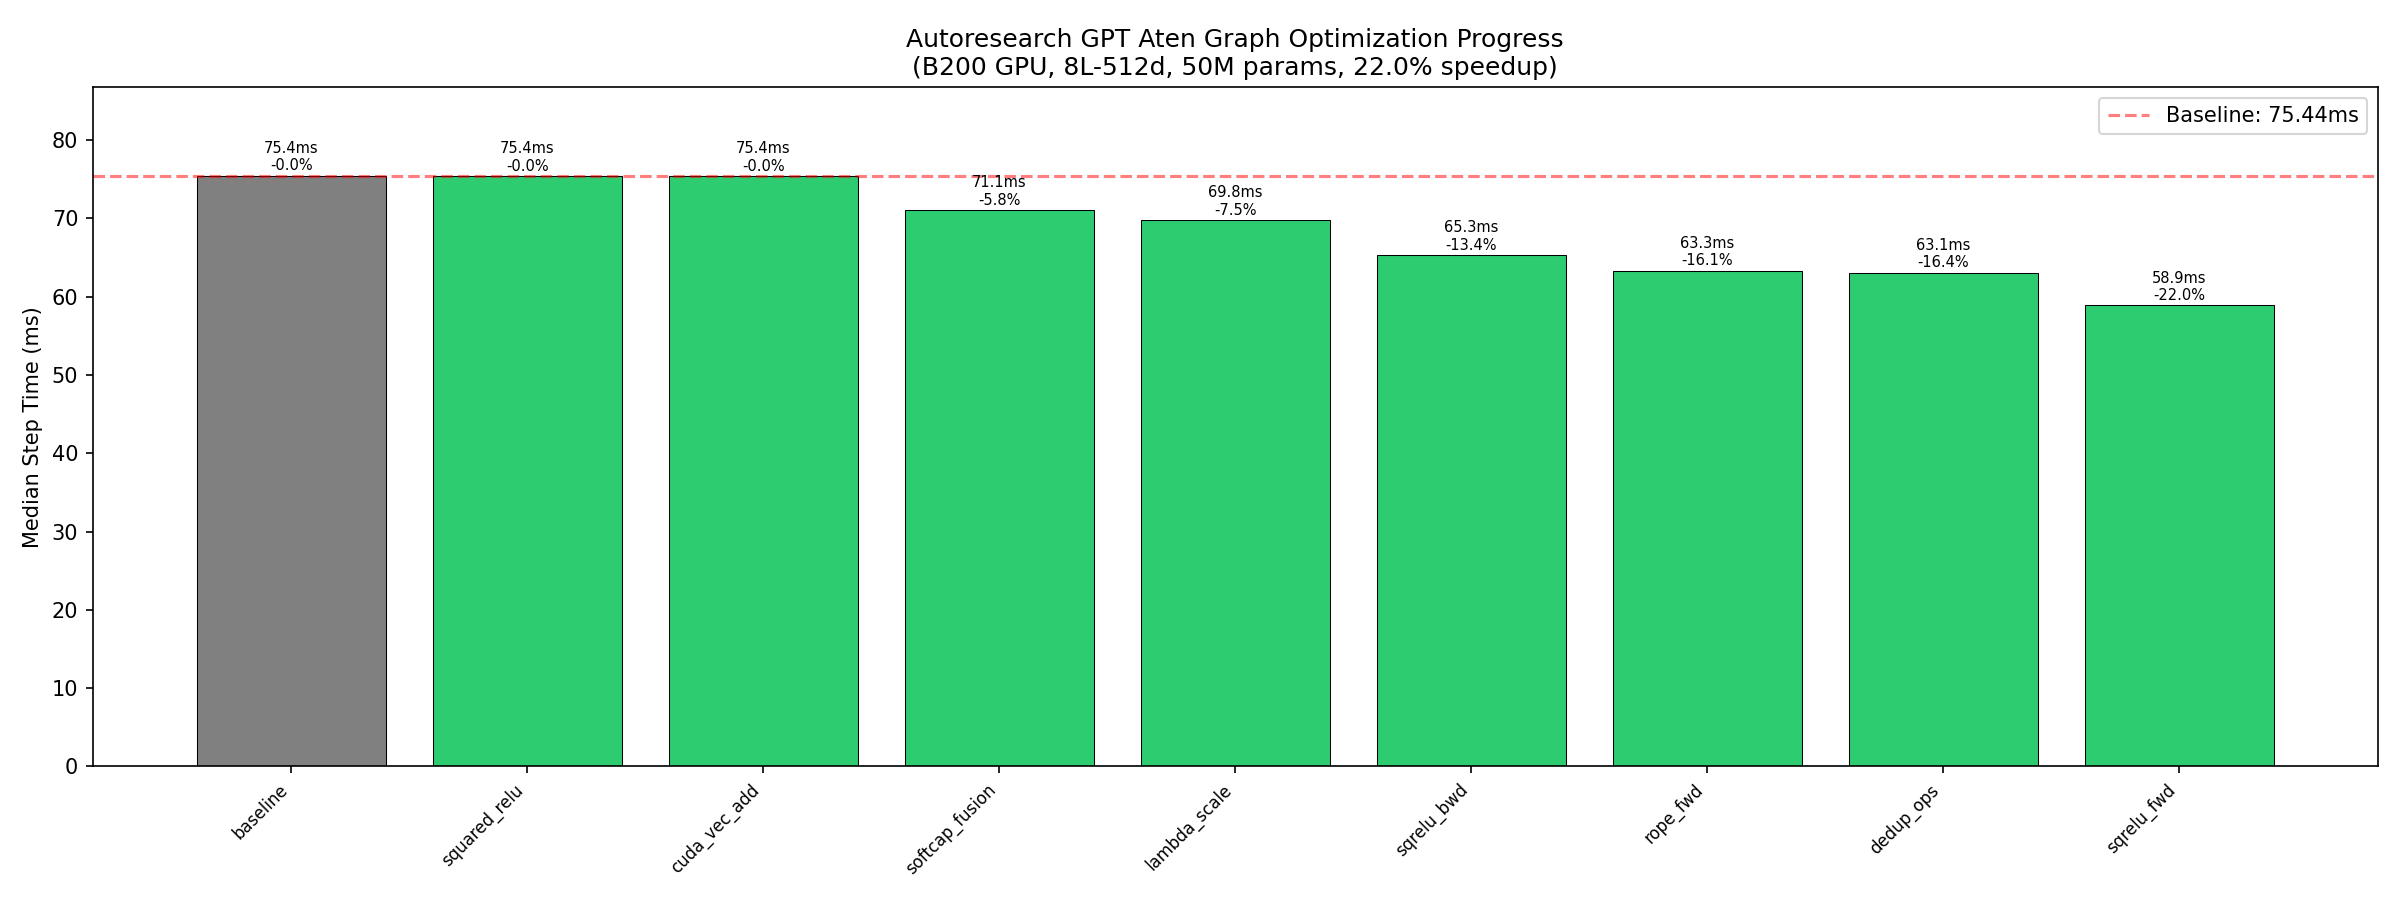
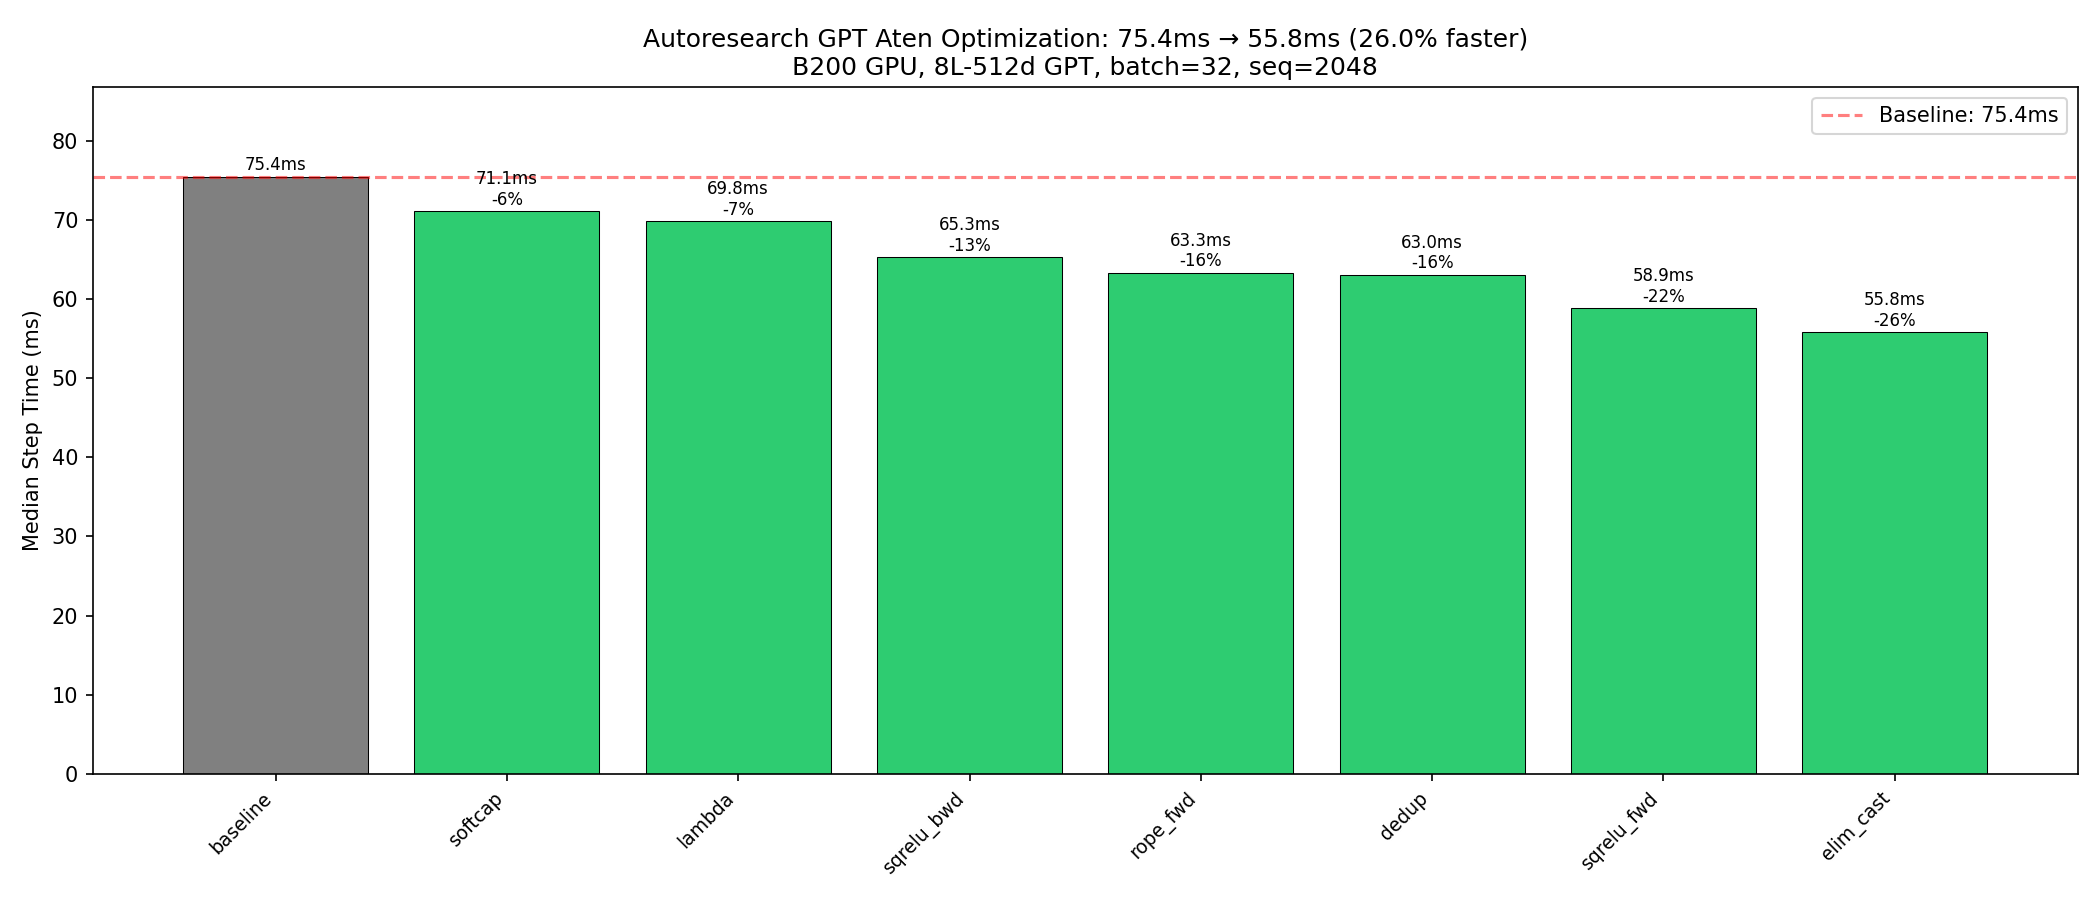
perf: fold bf16->fp32 cast into sqrelu_bwd kernel (26.0% total speedup)
Modified triton_squared_relu_bwd to accept bf16 gradient directly,
eliminating 8 large _to_copy(fp32) operations on [32,2048,2048] tensors.
55.80ms vs 75.44ms baseline on B200.

diff --git a/.autoresearch_optim_cache/GPT_07554748d291_2a_train_aten.py b/.autoresearch_optim_cache/GPT_07554748d291_2a_train_aten.py
@@ -352,26 +352,28 @@ def triton_softcap_bwd(grad_fp32, tanh_out_fp32, softcap=15):
 @triton.jit
 def _squared_relu_bwd_kernel(
     grad_ptr, relu_fp32_ptr, relu_bf16_ptr, out_ptr, n,
-    BLOCK: tl.constexpr,
+    GRAD_IS_BF16: tl.constexpr, BLOCK: tl.constexpr,
 ):
     pid = tl.program_id(0)
     offs = pid * BLOCK + tl.arange(0, BLOCK)
     mask = offs < n
-    grad = tl.load(grad_ptr + offs, mask=mask)           # fp32
+    grad_raw = tl.load(grad_ptr + offs, mask=mask)
+    # Cast grad to fp32 if input is bf16
+    grad = grad_raw.to(tl.float32) if GRAD_IS_BF16 else grad_raw
     relu_fp32 = tl.load(relu_fp32_ptr + offs, mask=mask)  # fp32
     relu_bf16 = tl.load(relu_bf16_ptr + offs, mask=mask).to(tl.float32)  # bf16 → fp32
     # d/dx [relu(x)^2] = 2*relu(x) * (x > 0)
-    # threshold_backward: output 0 where relu was 0
     result = tl.where(relu_bf16 > 0, grad * 2.0 * relu_fp32, 0.0)
     tl.store(out_ptr + offs, result.to(tl.bfloat16), mask=mask)
 
-def triton_squared_relu_bwd(grad_fp32, relu_fp32, relu_bf16):
-    """Fused squared relu backward: grad * 2 * relu * (relu > 0) → bf16."""
-    n = grad_fp32.numel()
-    out = torch.empty(grad_fp32.shape, dtype=torch.bfloat16, device=grad_fp32.device)
+def triton_squared_relu_bwd(grad, relu_fp32, relu_bf16):
+    """Fused squared relu backward: grad * 2 * relu * (relu > 0) → bf16. Accepts fp32 or bf16 grad."""
+    n = grad.numel()
+    out = torch.empty(grad.shape, dtype=torch.bfloat16, device=grad.device)
     BLOCK = 1024
     grid = ((n + BLOCK - 1) // BLOCK,)
-    _squared_relu_bwd_kernel[grid](grad_fp32, relu_fp32, relu_bf16, out, n, BLOCK=BLOCK)
+    is_bf16 = (grad.dtype == torch.bfloat16)
+    _squared_relu_bwd_kernel[grid](grad, relu_fp32, relu_bf16, out, n, GRAD_IS_BF16=is_bf16, BLOCK=BLOCK)
     return out
 # ── End Triton fused squared_relu backward kernel ──────────────────
 
@@ -2333,14 +2335,13 @@ def backward(
     grad_h7_mlp_c_proj_mm_1: 'bfloat16[65536, 2048]' = aten.mm(grad_h7_mlp_c_proj_view, grad_h7_mlp_c_proj_t_2)  # strides=(2048, 1), contiguous=True, view=False
     grad_h7_mlp_c_proj_view_1: 'bfloat16[32, 2048, 2048]' = aten.view(grad_h7_mlp_c_proj_mm_1, [32, 2048, 2048])  # strides=(4194304, 2048, 1), contiguous=True, view=True
     grad_h7_mlp_c_proj_t_3: 'bfloat16[512, 2048]' = aten.t(grad_h7_mlp_c_proj_t_1)  # strides=(2048, 1), contiguous=True, view=True
-    grad_h7_mlp_c_proj__to_copy: 'float32[32, 2048, 2048]' = aten._to_copy(grad_h7_mlp_c_proj_view_1, dtype=torch.float32, layout=torch.strided, device=torch.device('cuda:0'))  # strides=(4194304, 2048, 1), contiguous=True, view=False
     grad_h7_mlp_c_proj__to_copy_1: 'float32[512, 2048]' = aten._to_copy(grad_h7_mlp_c_proj_t_3, dtype=torch.float32, layout=torch.strided, device=torch.device('cuda:0'))  # strides=(2048, 1), contiguous=True, view=False
 
     # grad of self.transformer.h.7.mlp (MLP) → d_loss/d_mlp
     # /.autoresearch_repo/train.py:102
     # x = F.relu(x).square()
     # FUSED: squared_relu backward (pow+mul+mul+to_copy+threshold_backward → single Triton kernel)
-    grad_h7_mlp_threshold_backward: 'bfloat16[32, 2048, 2048]' = triton_squared_relu_bwd(grad_h7_mlp_c_proj__to_copy, _to_copy_65, detach_52)
+    grad_h7_mlp_threshold_backward: 'bfloat16[32, 2048, 2048]' = triton_squared_relu_bwd(grad_h7_mlp_c_proj_view_1, _to_copy_65, detach_52)
 
     # grad of self.transformer.h.7.mlp.c_fc (Linear) → d_loss/d_c_fc
     # /.autoresearch_repo/train.py:101
@@ -2541,14 +2542,13 @@ def backward(
     grad_h6_mlp_c_proj_mm_1: 'bfloat16[65536, 2048]' = aten.mm(grad_h6_mlp_c_proj_view, grad_h6_mlp_c_proj_t_2)  # strides=(2048, 1), contiguous=True, view=False
     grad_h6_mlp_c_proj_view_1: 'bfloat16[32, 2048, 2048]' = aten.view(grad_h6_mlp_c_proj_mm_1, [32, 2048, 2048])  # strides=(4194304, 2048, 1), contiguous=True, view=True
     grad_h6_mlp_c_proj_t_3: 'bfloat16[512, 2048]' = aten.t(grad_h6_mlp_c_proj_t_1)  # strides=(2048, 1), contiguous=True, view=True
-    grad_h6_mlp_c_proj__to_copy: 'float32[32, 2048, 2048]' = aten._to_copy(grad_h6_mlp_c_proj_view_1, dtype=torch.float32, layout=torch.strided, device=torch.device('cuda:0'))  # strides=(4194304, 2048, 1), contiguous=True, view=False
     grad_h6_mlp_c_proj__to_copy_1: 'float32[512, 2048]' = aten._to_copy(grad_h6_mlp_c_proj_t_3, dtype=torch.float32, layout=torch.strided, device=torch.device('cuda:0'))  # strides=(2048, 1), contiguous=True, view=False
 
     # grad of self.transformer.h.6.mlp (MLP) → d_loss/d_mlp
     # /.autoresearch_repo/train.py:102
     # x = F.relu(x).square()
     # FUSED: squared_relu backward
-    grad_h6_mlp_threshold_backward: 'bfloat16[32, 2048, 2048]' = triton_squared_relu_bwd(grad_h6_mlp_c_proj__to_copy, _to_copy_56, detach_45)
+    grad_h6_mlp_threshold_backward: 'bfloat16[32, 2048, 2048]' = triton_squared_relu_bwd(grad_h6_mlp_c_proj_view_1, _to_copy_56, detach_45)
 
     # grad of self.transformer.h.6.mlp.c_fc (Linear) → d_loss/d_c_fc
     # /.autoresearch_repo/train.py:101
@@ -2715,14 +2715,13 @@ def backward(
     grad_h5_mlp_c_proj_mm_1: 'bfloat16[65536, 2048]' = aten.mm(grad_h5_mlp_c_proj_view, grad_h5_mlp_c_proj_t_2)  # strides=(2048, 1), contiguous=True, view=False
     grad_h5_mlp_c_proj_view_1: 'bfloat16[32, 2048, 2048]' = aten.view(grad_h5_mlp_c_proj_mm_1, [32, 2048, 2048])  # strides=(4194304, 2048, 1), contiguous=True, view=True
     grad_h5_mlp_c_proj_t_3: 'bfloat16[512, 2048]' = aten.t(grad_h5_mlp_c_proj_t_1)  # strides=(2048, 1), contiguous=True, view=True
-    grad_h5_mlp_c_proj__to_copy: 'float32[32, 2048, 2048]' = aten._to_copy(grad_h5_mlp_c_proj_view_1, dtype=torch.float32, layout=torch.strided, device=torch.device('cuda:0'))  # strides=(4194304, 2048, 1), contiguous=True, view=False
     grad_h5_mlp_c_proj__to_copy_1: 'float32[512, 2048]' = aten._to_copy(grad_h5_mlp_c_proj_t_3, dtype=torch.float32, layout=torch.strided, device=torch.device('cuda:0'))  # strides=(2048, 1), contiguous=True, view=False
 
     # grad of self.transformer.h.5.mlp (MLP) → d_loss/d_mlp
     # /.autoresearch_repo/train.py:102
     # x = F.relu(x).square()
     # FUSED: squared_relu backward
-    grad_h5_mlp_threshold_backward: 'bfloat16[32, 2048, 2048]' = triton_squared_relu_bwd(grad_h5_mlp_c_proj__to_copy, _to_copy_48, detach_39)
+    grad_h5_mlp_threshold_backward: 'bfloat16[32, 2048, 2048]' = triton_squared_relu_bwd(grad_h5_mlp_c_proj_view_1, _to_copy_48, detach_39)
 
     # grad of self.transformer.h.5.mlp.c_fc (Linear) → d_loss/d_c_fc
     # /.autoresearch_repo/train.py:101
@@ -2926,14 +2925,13 @@ def backward(
     grad_h4_mlp_c_proj_mm_1: 'bfloat16[65536, 2048]' = aten.mm(grad_h4_mlp_c_proj_view, grad_h4_mlp_c_proj_t_2)  # strides=(2048, 1), contiguous=True, view=False
     grad_h4_mlp_c_proj_view_1: 'bfloat16[32, 2048, 2048]' = aten.view(grad_h4_mlp_c_proj_mm_1, [32, 2048, 2048])  # strides=(4194304, 2048, 1), contiguous=True, view=True
     grad_h4_mlp_c_proj_t_3: 'bfloat16[512, 2048]' = aten.t(grad_h4_mlp_c_proj_t_1)  # strides=(2048, 1), contiguous=True, view=True
-    grad_h4_mlp_c_proj__to_copy: 'float32[32, 2048, 2048]' = aten._to_copy(grad_h4_mlp_c_proj_view_1, dtype=torch.float32, layout=torch.strided, device=torch.device('cuda:0'))  # strides=(4194304, 2048, 1), contiguous=True, view=False
     grad_h4_mlp_c_proj__to_copy_1: 'float32[512, 2048]' = aten._to_copy(grad_h4_mlp_c_proj_t_3, dtype=torch.float32, layout=torch.strided, device=torch.device('cuda:0'))  # strides=(2048, 1), contiguous=True, view=False
 
     # grad of self.transformer.h.4.mlp (MLP) → d_loss/d_mlp
     # /.autoresearch_repo/train.py:102
     # x = F.relu(x).square()
     # FUSED: squared_relu backward
-    grad_h4_mlp_threshold_backward: 'bfloat16[32, 2048, 2048]' = triton_squared_relu_bwd(grad_h4_mlp_c_proj__to_copy, _to_copy_39, detach_32)
+    grad_h4_mlp_threshold_backward: 'bfloat16[32, 2048, 2048]' = triton_squared_relu_bwd(grad_h4_mlp_c_proj_view_1, _to_copy_39, detach_32)
 
     # grad of self.transformer.h.4.mlp.c_fc (Linear) → d_loss/d_c_fc
     # /.autoresearch_repo/train.py:101
@@ -3100,14 +3098,13 @@ def backward(
     grad_h3_mlp_c_proj_mm_1: 'bfloat16[65536, 2048]' = aten.mm(grad_h3_mlp_c_proj_view, grad_h3_mlp_c_proj_t_2)  # strides=(2048, 1), contiguous=True, view=False
     grad_h3_mlp_c_proj_view_1: 'bfloat16[32, 2048, 2048]' = aten.view(grad_h3_mlp_c_proj_mm_1, [32, 2048, 2048])  # strides=(4194304, 2048, 1), contiguous=True, view=True
     grad_h3_mlp_c_proj_t_3: 'bfloat16[512, 2048]' = aten.t(grad_h3_mlp_c_proj_t_1)  # strides=(2048, 1), contiguous=True, view=True
-    grad_h3_mlp_c_proj__to_copy: 'float32[32, 2048, 2048]' = aten._to_copy(grad_h3_mlp_c_proj_view_1, dtype=torch.float32, layout=torch.strided, device=torch.device('cuda:0'))  # strides=(4194304, 2048, 1), contiguous=True, view=False
     grad_h3_mlp_c_proj__to_copy_1: 'float32[512, 2048]' = aten._to_copy(grad_h3_mlp_c_proj_t_3, dtype=torch.float32, layout=torch.strided, device=torch.device('cuda:0'))  # strides=(2048, 1), contiguous=True, view=False
 
     # grad of self.transformer.h.3.mlp (MLP) → d_loss/d_mlp
     # /.autoresearch_repo/train.py:102
     # x = F.relu(x).square()
     # FUSED: squared_relu backward
-    grad_h3_mlp_threshold_backward: 'bfloat16[32, 2048, 2048]' = triton_squared_relu_bwd(grad_h3_mlp_c_proj__to_copy, _to_copy_31, detach_26)
+    grad_h3_mlp_threshold_backward: 'bfloat16[32, 2048, 2048]' = triton_squared_relu_bwd(grad_h3_mlp_c_proj_view_1, _to_copy_31, detach_26)
 
     # grad of self.transformer.h.3.mlp.c_fc (Linear) → d_loss/d_c_fc
     # /.autoresearch_repo/train.py:101
@@ -3311,14 +3308,13 @@ def backward(
     grad_h2_mlp_c_proj_mm_1: 'bfloat16[65536, 2048]' = aten.mm(grad_h2_mlp_c_proj_view, grad_h2_mlp_c_proj_t_2)  # strides=(2048, 1), contiguous=True, view=False
     grad_h2_mlp_c_proj_view_1: 'bfloat16[32, 2048, 2048]' = aten.view(grad_h2_mlp_c_proj_mm_1, [32, 2048, 2048])  # strides=(4194304, 2048, 1), contiguous=True, view=True
     grad_h2_mlp_c_proj_t_3: 'bfloat16[512, 2048]' = aten.t(grad_h2_mlp_c_proj_t_1)  # strides=(2048, 1), contiguous=True, view=True
-    grad_h2_mlp_c_proj__to_copy: 'float32[32, 2048, 2048]' = aten._to_copy(grad_h2_mlp_c_proj_view_1, dtype=torch.float32, layout=torch.strided, device=torch.device('cuda:0'))  # strides=(4194304, 2048, 1), contiguous=True, view=False
     grad_h2_mlp_c_proj__to_copy_1: 'float32[512, 2048]' = aten._to_copy(grad_h2_mlp_c_proj_t_3, dtype=torch.float32, layout=torch.strided, device=torch.device('cuda:0'))  # strides=(2048, 1), contiguous=True, view=False
 
     # grad of self.transformer.h.2.mlp (MLP) → d_loss/d_mlp
     # /.autoresearch_repo/train.py:102
     # x = F.relu(x).square()
     # FUSED: squared_relu backward
-    grad_h2_mlp_threshold_backward: 'bfloat16[32, 2048, 2048]' = triton_squared_relu_bwd(grad_h2_mlp_c_proj__to_copy, _to_copy_22, detach_19)
+    grad_h2_mlp_threshold_backward: 'bfloat16[32, 2048, 2048]' = triton_squared_relu_bwd(grad_h2_mlp_c_proj_view_1, _to_copy_22, detach_19)
 
     # grad of self.transformer.h.2.mlp.c_fc (Linear) → d_loss/d_c_fc
     # /.autoresearch_repo/train.py:101
@@ -3485,14 +3481,13 @@ def backward(
     grad_h1_mlp_c_proj_mm_1: 'bfloat16[65536, 2048]' = aten.mm(grad_h1_mlp_c_proj_view, grad_h1_mlp_c_proj_t_2)  # strides=(2048, 1), contiguous=True, view=False
     grad_h1_mlp_c_proj_view_1: 'bfloat16[32, 2048, 2048]' = aten.view(grad_h1_mlp_c_proj_mm_1, [32, 2048, 2048])  # strides=(4194304, 2048, 1), contiguous=True, view=True
     grad_h1_mlp_c_proj_t_3: 'bfloat16[512, 2048]' = aten.t(grad_h1_mlp_c_proj_t_1)  # strides=(2048, 1), contiguous=True, view=True
-    grad_h1_mlp_c_proj__to_copy: 'float32[32, 2048, 2048]' = aten._to_copy(grad_h1_mlp_c_proj_view_1, dtype=torch.float32, layout=torch.strided, device=torch.device('cuda:0'))  # strides=(4194304, 2048, 1), contiguous=True, view=False
     grad_h1_mlp_c_proj__to_copy_1: 'float32[512, 2048]' = aten._to_copy(grad_h1_mlp_c_proj_t_3, dtype=torch.float32, layout=torch.strided, device=torch.device('cuda:0'))  # strides=(2048, 1), contiguous=True, view=False
 
     # grad of self.transformer.h.1.mlp (MLP) → d_loss/d_mlp
     # /.autoresearch_repo/train.py:102
     # x = F.relu(x).square()
     # FUSED: squared_relu backward
-    grad_h1_mlp_threshold_backward: 'bfloat16[32, 2048, 2048]' = triton_squared_relu_bwd(grad_h1_mlp_c_proj__to_copy, _to_copy_14, detach_13)
+    grad_h1_mlp_threshold_backward: 'bfloat16[32, 2048, 2048]' = triton_squared_relu_bwd(grad_h1_mlp_c_proj_view_1, _to_copy_14, detach_13)
 
     # grad of self.transformer.h.1.mlp.c_fc (Linear) → d_loss/d_c_fc
     # /.autoresearch_repo/train.py:101
@@ -3696,14 +3691,13 @@ def backward(
     grad_h0_mlp_c_proj_mm_1: 'bfloat16[65536, 2048]' = aten.mm(grad_h0_mlp_c_proj_view, grad_h0_mlp_c_proj_t_2)  # strides=(2048, 1), contiguous=True, view=False
     grad_h0_mlp_c_proj_view_1: 'bfloat16[32, 2048, 2048]' = aten.view(grad_h0_mlp_c_proj_mm_1, [32, 2048, 2048])  # strides=(4194304, 2048, 1), contiguous=True, view=True
     grad_h0_mlp_c_proj_t_3: 'bfloat16[512, 2048]' = aten.t(grad_h0_mlp_c_proj_t_1)  # strides=(2048, 1), contiguous=True, view=True
-    grad_h0_mlp_c_proj__to_copy: 'float32[32, 2048, 2048]' = aten._to_copy(grad_h0_mlp_c_proj_view_1, dtype=torch.float32, layout=torch.strided, device=torch.device('cuda:0'))  # strides=(4194304, 2048, 1), contiguous=True, view=False
     grad_h0_mlp_c_proj__to_copy_1: 'float32[512, 2048]' = aten._to_copy(grad_h0_mlp_c_proj_t_3, dtype=torch.float32, layout=torch.strided, device=torch.device('cuda:0'))  # strides=(2048, 1), contiguous=True, view=False
 
     # grad of self.transformer.h.0.mlp (MLP) → d_loss/d_mlp
     # /.autoresearch_repo/train.py:102
     # x = F.relu(x).square()
     # FUSED: squared_relu backward
-    grad_h0_mlp_threshold_backward: 'bfloat16[32, 2048, 2048]' = triton_squared_relu_bwd(grad_h0_mlp_c_proj__to_copy, _to_copy_5, detach_6)
+    grad_h0_mlp_threshold_backward: 'bfloat16[32, 2048, 2048]' = triton_squared_relu_bwd(grad_h0_mlp_c_proj_view_1, _to_copy_5, detach_6)
 
     # grad of self.transformer.h.0.mlp.c_fc (Linear) → d_loss/d_c_fc
     # /.autoresearch_repo/train.py:101
